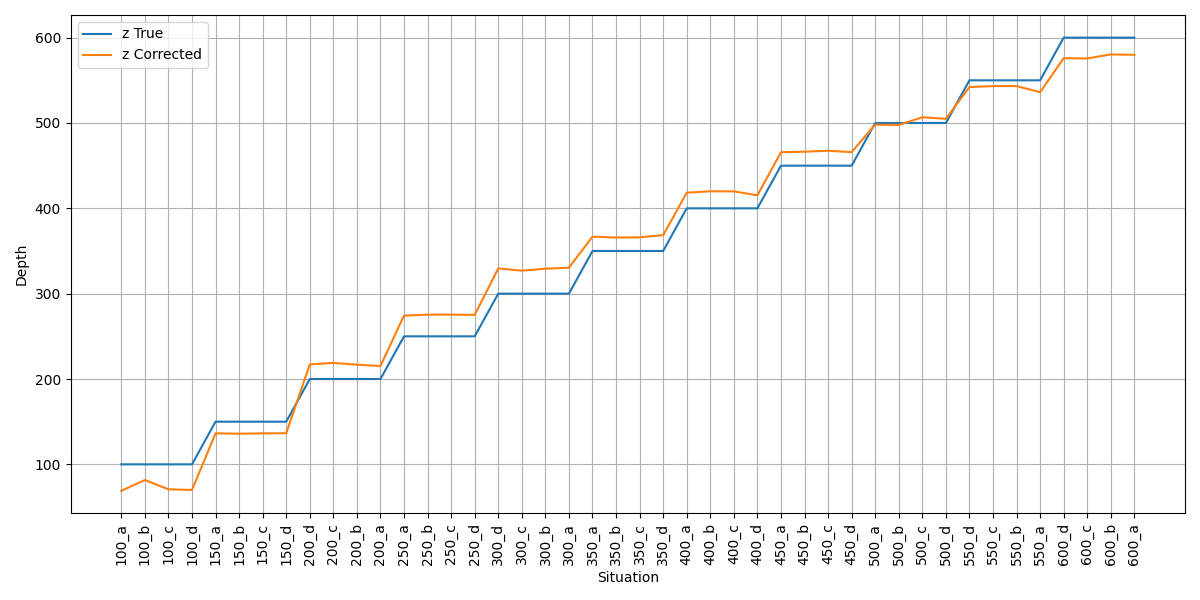
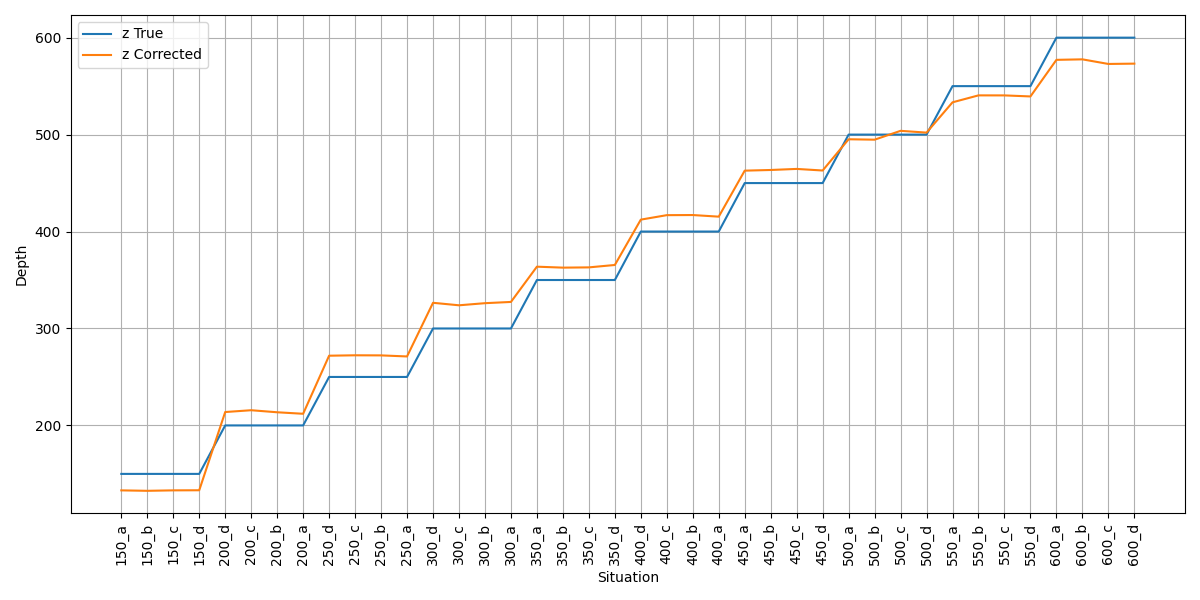
Height estimation correction V1

diff --git a/dense_point_cloud/main.py b/dense_point_cloud/main.py
@@ -5,7 +5,7 @@ import string
 import joblib
 import numpy as np
 import pc_generation as pcGen
-
+import matplotlib.pyplot as plt
 # Definición de los videos y matrices de configuración
 configs = {
     'matlab_1': {
@@ -15,7 +15,7 @@ configs = {
         'RIGHT_VIDEO': '../videos/rectified/matlab_1/16_35_42_26_02_2024_VID_RIGHT.avi',
         'MATRIX_Q': '../config_files/matlab_1/newStereoMap.xml',
         'disparity_to_depth_map': 'disparity2depth_matrix',
-        'model': "../datasets/models/z_estimation_matlab_1_keypoint_ln_model.pkl",
+        'model': "../datasets/models/matlab_1/height_lr.pkl",
         'numDisparities': 68,
         'blockSize': 7, 
         'minDisparity': 5,
@@ -222,6 +222,34 @@ def read_image_pairs_by_distance(base_folder):
     
     return image_pairs_by_distance
 
+def graficar_alturas(alturas_estimadas, altura_minima, altura_maxima):
+    """
+    Función para graficar alturas estimadas.
+
+    :param alturas_estimadas: Lista de alturas estimadas.
+    :param altura_minima: Valor mínimo del rango de altura.
+    :param altura_maxima: Valor máximo del rango de altura.
+    """
+    # Creación de la figura y los ejes
+    fig, ax = plt.subplots()
+
+    # Gráfico de la línea de alturas estimadas
+    ax.plot(alturas_estimadas, marker='o', linestyle='-', color='b')
+
+    # Configuración de los límites de los ejes
+    ax.set_xlim(0, len(alturas_estimadas) - 1)
+    ax.set_ylim(altura_minima, altura_maxima)
+
+    # Etiquetas de los ejes
+    ax.set_xlabel('Índice de la medición')
+    ax.set_ylabel('Altura estimada (cm)')
+
+    # Título de la gráfica
+    ax.set_title('Comportamiento de las alturas estimadas')
+
+    plt.savefig("IMG_alturas")
+    plt.close()
+
 
 # Flujo principal para todas las situaciones
 data = []
@@ -378,8 +406,12 @@ model = joblib.load(model_path)
 
 
 ################################################################################################################################
-pairs = read_image_pairs_by_distance('../images/calibration_results/matlab_1/validation')
+pairs = read_image_pairs_by_distance('../images/calibration_results/matlab_1/chessboard')
 alphabet = string.ascii_lowercase
+alturas = []
+
+
+
 for situation, variations in pairs.items():
     try:
 
@@ -405,9 +437,11 @@ for situation, variations in pairs.items():
             dense_point_cloud = dense_point_cloud.astype(np.float64)
 
             # Corrección de nube densa 
-            # dense_point_cloud = pcGen.point_cloud_correction(dense_point_cloud, model)
+            #dense_point_cloud = pcGen.point_cloud_correction(dense_point_cloud, model)
 
+            # base_filename = f"./point_clouds/{camera_type}/{mask_type}_disparity/{camera_type}_{situation}_{letter}_corrected"
             base_filename = f"./point_clouds/{camera_type}/{mask_type}_disparity/{camera_type}_{situation}_{letter}"
+
             pcGen.save_dense_point_cloud(dense_point_cloud, dense_colors, base_filename)
 
             # # Generar nube de puntos con filtrado y aplicar DBSCAN
@@ -423,7 +457,7 @@ for situation, variations in pairs.items():
             counter = 0
             heights = []
             for pc, cl in zip(point_cloud_list, colors_list):
-                # pc = pcGen.point_cloud_correction(pc, model)
+                #pc = pcGen.point_cloud_correction(pc, model)
                 #pcGen.process_point_cloud(point_cloud, eps, min_samples, base_filename) #This is DBSCAN process
                 # colors = original_cloud_colors = np.ones_like(point_cloud) * [255, 0, 0]
                 centroids = pcGen.process_point_cloud(pc, eps, min_samples, f"{base_filename}_person{counter}")
@@ -442,42 +476,46 @@ for situation, variations in pairs.items():
                         print(f"Para el centroide con z = {centroids[0][2]}, el rango de Y es: Y_min = {y_min}, Y_max = {y_max}")
                         print(f"La altura de la persona {counter+1} es de {abs(y_max - y_min)}")
                         heights.append(y_max-y_min)
+                        alturas.append(y_max-y_min)
                     else:
                         print("No se encontraron puntos en el rango óptimo para este centroide.")
                 counter += 1
                 print(centroids)
-
-                z_estimations = [centroid[2] for centroid in centroids] if centroids is not None else []
-                data.append({
-                    "situation": situation + "_" + letter,
-                    **{f"z_estimation_{i+1}": z for i, z in enumerate(z_estimations)}
-                })
+            
+                # z_estimations = [centroid[2] for centroid in centroids] if centroids is not None else []
+                # data.append({
+                #     "situation": situation + "_" + letter,
+                #     **{f"z_estimation_{i+1}": z for i, z in enumerate(z_estimations)}
+                # })
             data_height.append(heights)
             
             
-            # heights_estimations = [height for height in heights] if heights is not None else []
-            # data.append({
-            #     "situation": situation,
-            #     **{f"z_estimation_{i+1}": z for i, z in enumerate(heights_estimations)}
-            # })
-        
+            heights_estimations = [height for height in heights] if heights is not None else []
+            data.append({
+                "situation": situation + "_" + letter,
+                **{f"h_estimation_{i+1}": z for i, z in enumerate(heights_estimations)}
+            })
+          
     except Exception as e:
         print(f"Error procesando {situation}: {e}")    
 
-
+# alturas = [157.43612581866932, 156.8095422592475, 156.9406790662916, 157.95365574074827, 153.05819018710446, 154.19328141790845, 153.0152661459107, 152.15594113483553, 171.21962589737763, 171.32145118182308, 168.36932374795845, 169.9956647777326, 177.31622114412914, 180.37798739055467, 175.49163042493484, 175.55732353792962, 130.6788474795684, 129.96779483673578, 128.13854669838858, 130.5648414372045, 137.6453896269049, 138.2043374834691, 138.98497561379958, 138.83201464903598, 154.43072825389646, 155.83258743632342, 153.78167300680082, 154.0236285698781, 135.58037823045095, 136.37961246176573, 135.95496231772637, 134.0220086598071, 185.15909915426658, 184.68129879227348, 183.25861312790846, 183.87008285854478, 146.78258888187133, 146.6510012021183, 141.85468447577546, 140.32748268026592, 192.21032622833195, 192.91321279896297, 188.991181423899, 190.16987780147835]
+# graficar_alturas(alturas, 0, 250) 
 
 ################################################ GUARDAR DATASET ###############################################################
 
 if len(data) > 0:
     # Guardar dataset como CSV
-    dataset_path = f"../datasets/data/z_estimation_{camera_type}_{mask_type}_validation.csv"
+    dataset_path = f"../datasets/data/z_estimation_{camera_type}_{mask_type}_heights_train.csv"
 
     if not os.path.exists(os.path.dirname(dataset_path)):
         os.makedirs(os.path.dirname(dataset_path))
 
     max_z_count = max(len(row) - 1 for row in data) # -1 porque situation no es una columna z_estimation
 
-    fieldnames = ["situation"] + [f"z_estimation_{i+1}" for i in range(max_z_count)]
+    # fieldnames = ["situation"] + [f"z_estimation_{i+1}" for i in range(max_z_count)]
+    fieldnames = ["situation"] + [f"h_estimation_{i+1}" for i in range(max_z_count)]
+
 
     with open(dataset_path, "w", newline='') as csvfile:
         writer = csv.DictWriter(csvfile, fieldnames=fieldnames)
@@ -486,3 +524,7 @@ if len(data) > 0:
         for row in data:
             writer.writerow(row)
     print(f"Dataset guardado en {dataset_path}")
+
+
+
+

diff --git a/datasets/data_analisis.py b/datasets/data_analisis.py
@@ -1,3 +1,4 @@
+import os
 import csv
 import numpy as np
 import pandas as pd
@@ -10,12 +11,47 @@ folder = "matlab_1"
 file_name = f"z_estimation_{folder}_keypoint" 
 # file_name = "z_estimation_matlab_kp_cm" 
 
-df = pd.read_csv(f"data/{folder}/ground_truth/{file_name}.csv") 
+df = pd.read_csv(f"data/{folder}/ground_truth/{file_name}_training.csv") 
 df_gt = pd.read_csv(f"data/{file_name}_validation.csv")
+df_alturas_train = pd.read_csv(f"data/{file_name}_heights_train.csv")
+df_alturas_train = df_alturas_train.sort_values(["situation"]).reset_index(drop=True)
+df_alturas_val = pd.read_csv(f"data/{file_name}_heights_val.csv")
+df_alturas_val = df_alturas_val.sort_values(["situation"]).reset_index(drop=True)
 # df = pd.read_csv(f"steven/{file_name}.csv")
 # df = pd.read_csv("z_estimation_old_keypoints_no_astype_no_norm.csv")
 
-df = pd.DataFrame(df)
+def graficar_alturas(df, altura_minima, altura_maxima):
+    """
+    Función para graficar alturas estimadas.
+
+    :param alturas_estimadas: Lista de alturas estimadas.
+    :param altura_minima: Valor mínimo del rango de altura.
+    :param altura_maxima: Valor máximo del rango de altura.
+    """
+    alturas_estimadas = df["h_estimation_1"]
+    # Creación de la figura y los ejes
+    fig, ax = plt.subplots()
+
+    # Gráfico de la línea de alturas estimadas
+    ax.plot(alturas_estimadas, marker='o', linestyle='-', color='b')
+
+    # Configuración de los límites de los ejes
+    
+    ax.set_xlim(0, len(alturas_estimadas) - 1)
+    ax.set_ylim(altura_minima, altura_maxima)
+
+    # Etiquetas de los ejes
+    ax.set_xlabel('Situacion')
+    ax.set_ylabel('Altura estimada (cm)')
+
+    ax.set_xticks(range(len(df["situation"])))
+    ax.set_xticklabels(df["situation"], rotation=90, ha="right")
+
+    # Título de la gráfica
+    ax.set_title('Comportamiento de las alturas estimadas')
+    plt.tight_layout()
+    plt.savefig("IMG_alturas")
+    plt.close()
 
 def extract_z_true(situation):
     return int(situation.split("_")[0])
@@ -42,14 +78,17 @@ def linearCorrection(model, value):
     corrected_value = model.predict(np.array([[value]]))
     return corrected_value[0][0]
 
-def apply_linear_regresion(df, col_x, col_y):
+def apply_linear_regresion(df, col_x, col_y, filename):
     X = df[[col_x]].values.reshape(-1,1)
     Y = df[col_y].values
 
     modelo = LinearRegression()
     modelo.fit(X,Y)
     modelo.predict(X)
-    filename = f'models/{file_name}_ln_model.pkl'
+    filename = f'models/{filename}.pkl'
+
+    if not os.path.exists(os.path.dirname(filename)):
+        os.makedirs(os.path.dirname(filename))
     joblib.dump(modelo, filename)
     return modelo
 
@@ -130,16 +169,21 @@ df_gt_processed = df_gt_processed.sort_values(["z_true"])
 
 # df_variant["z_corrected"] = df_variant["z_true"].apply(apply_linear_correction)
 
-lr_model = apply_linear_regresion(df_processed, "z_estimation_1", "z_true")
+lr_model = apply_linear_regresion(df_processed, "z_estimation_1", "z_true", f'{folder}/z_lr')
 # lr_model = joblib.load("models/z_estimation_matlab_1_keypoint_ln_model_LASER.pkl")
 
 df_gt_processed["z_corrected"] =  lr_model.predict(df_gt_processed[["z_estimation_1"]].values.reshape(-1,1))
 df_gt_processed["error"] = (abs(df_gt_processed["z_corrected"] - df_gt_processed["z_true"])*100)/df_gt_processed["z_true"]
 
-print(df_processed)
 print('-----------------------------------------------------------------------------')
-print(df_gt_processed)
 print(np.mean(df_gt_processed['error'][:7]))
+print('-----------------------------------------------------------------------------')
+df_alturas_train["h_true"] = 173
+df_alturas_val["h_true"] = 173
+h_model = apply_linear_regresion(df_alturas_train, "h_estimation_1", "h_true", f'{folder}/height_lr')
+df_alturas_val["h_corrected"] = h_model.predict(df_alturas_val[["h_estimation_1"]].values.reshape(-1,1))
+df_alturas_val["error"] = (abs(df_alturas_val["h_corrected"] - df_alturas_val["h_true"])*100)/df_alturas_val["h_true"]
+print(df_alturas_val)
 # VALIDATION
 df_variant = df_processed[df_processed["situation"].str.contains("variant")]
 
@@ -182,9 +226,10 @@ def save_plot(df, original, path):
 
 ###########################################ORIGINAL#####################################
 
-save_plot(df_processed, True, f"./graficas/{folder}/ground_truth/original_{file_name}.png")
+# save_plot(df_processed, True, f"./graficas/{folder}/ground_truth/original_{file_name}.png")
 
-###########################################CORRECTED#####################################
+# ###########################################CORRECTED#####################################
 
-save_plot(df_gt_processed, False, f"./graficas/{folder}/ground_truth/corrected_{file_name}.png")
+# save_plot(df_gt_processed, False, f"./graficas/{folder}/ground_truth/corrected_{file_name}.png")
 
+graficar_alturas(df_alturas_train, 0, 250)

diff --git a/dense_point_cloud/point_cloud_visualizer.py b/dense_point_cloud/point_cloud_visualizer.py
@@ -120,32 +120,25 @@ if __name__ == "__main__":
 
     config = "matlab_1"
     mask = "keypoint"
-    situacion = "L_10_1"
+    situacion = "150_a_corrected"
 
-    # filepath = f"./point_clouds/{config}/{mask}_disparity/{config}_{situacion}"
-    # filepath = f"./point_clouds/video/L/{config}/{mask}_disparity/{config}_{situacion}"
-
-    filepath = "./point_clouds/video/L/matlab_1/keypoint_disparity/matlab_1_L_0_dense.ply"
+    filepath = f"./point_clouds/{config}/{mask}_disparity/{config}_{situacion}"
 
     # Visualización de la nube de puntos densa
     dense_pcd_file = f"{filepath}_dense.ply"
- 
-    visualize_dense_point_cloud(filepath)
+    visualize_dense_point_cloud(dense_pcd_file)
 
     
     # Visualización de la nube de puntos dispersa
-    sparse_pcd_file = f"{filepath}_0_original.ply"
-    centroid_file = f"{filepath}_0_centroids.ply"
-    #visualize_dense_point_cloud(sparse_pcd_file)
+    sparse_pcd_file = f"{filepath}_person0_original.ply"
+    centroid_file = f"{filepath}_person0_centroids.ply"
+
     # Imprimir coordenadas Z de los centroides
     # print_centroid_z_coordinates(centroid_file)
-
     
     # Visualizar la nube de puntos dispersa
-    #visualize_sparse_point_cloud(sparse_pcd_file)
-    
-    # visualize_sparse_point_cloud(sparse_pcd_file, centroid_file)
-    #visualize_sparse_point_cloud(sparse_pcd_file)
+    visualize_sparse_point_cloud(sparse_pcd_file, centroid_file)
+
     
 
 

diff --git a/dense_point_cloud/pc_generation.py b/dense_point_cloud/pc_generation.py
@@ -199,7 +199,7 @@ def generate_filtered_point_cloud(img_l, disparity, Q, camera_type, use_roi=True
         
         #save_image("../images/prediction_results/", result_image, "filtered_keypoints", False)
 
-        eps = 50 if "matlab" in camera_type else 10
+        eps = 100 if "matlab" in camera_type else 10
         min_samples = 6
 
     for mask in result_image_list:
@@ -245,13 +245,20 @@ def roi_source_point_cloud(img_l, img_r, Q):
 def point_cloud_correction(points, model):
     points = np.asarray(points)
 
-    Xy = points[:,:2]
+    # Xy = points[:,:2]
+    x = points[:, 0].reshape(-1,1)
+    x_pred = model.predict(x)
+    y = points[:, 1].reshape(-1,1)
+    y_pred = model.predict(y)
     # Predecir las coordenadas Z corregidas usando el modelo
-    z = points[:, 2].reshape(-1,1)  # Tomar solo las coordenadas X, y
+    z = points[:, 2].reshape(-1,1)  # Tomar solo las coordenadas z
     z_pred = model.predict(z)
+
     
     # Actualizar las coordenadas Z de la nube de puntos con las predicciones corregidas
-    corrected_points = np.column_stack((Xy, z_pred))
+    # corrected_points = np.column_stack((Xy, z_pred))
+    corrected_points = np.column_stack((x_pred,y_pred, z_pred))
+
     return corrected_points
 
 
